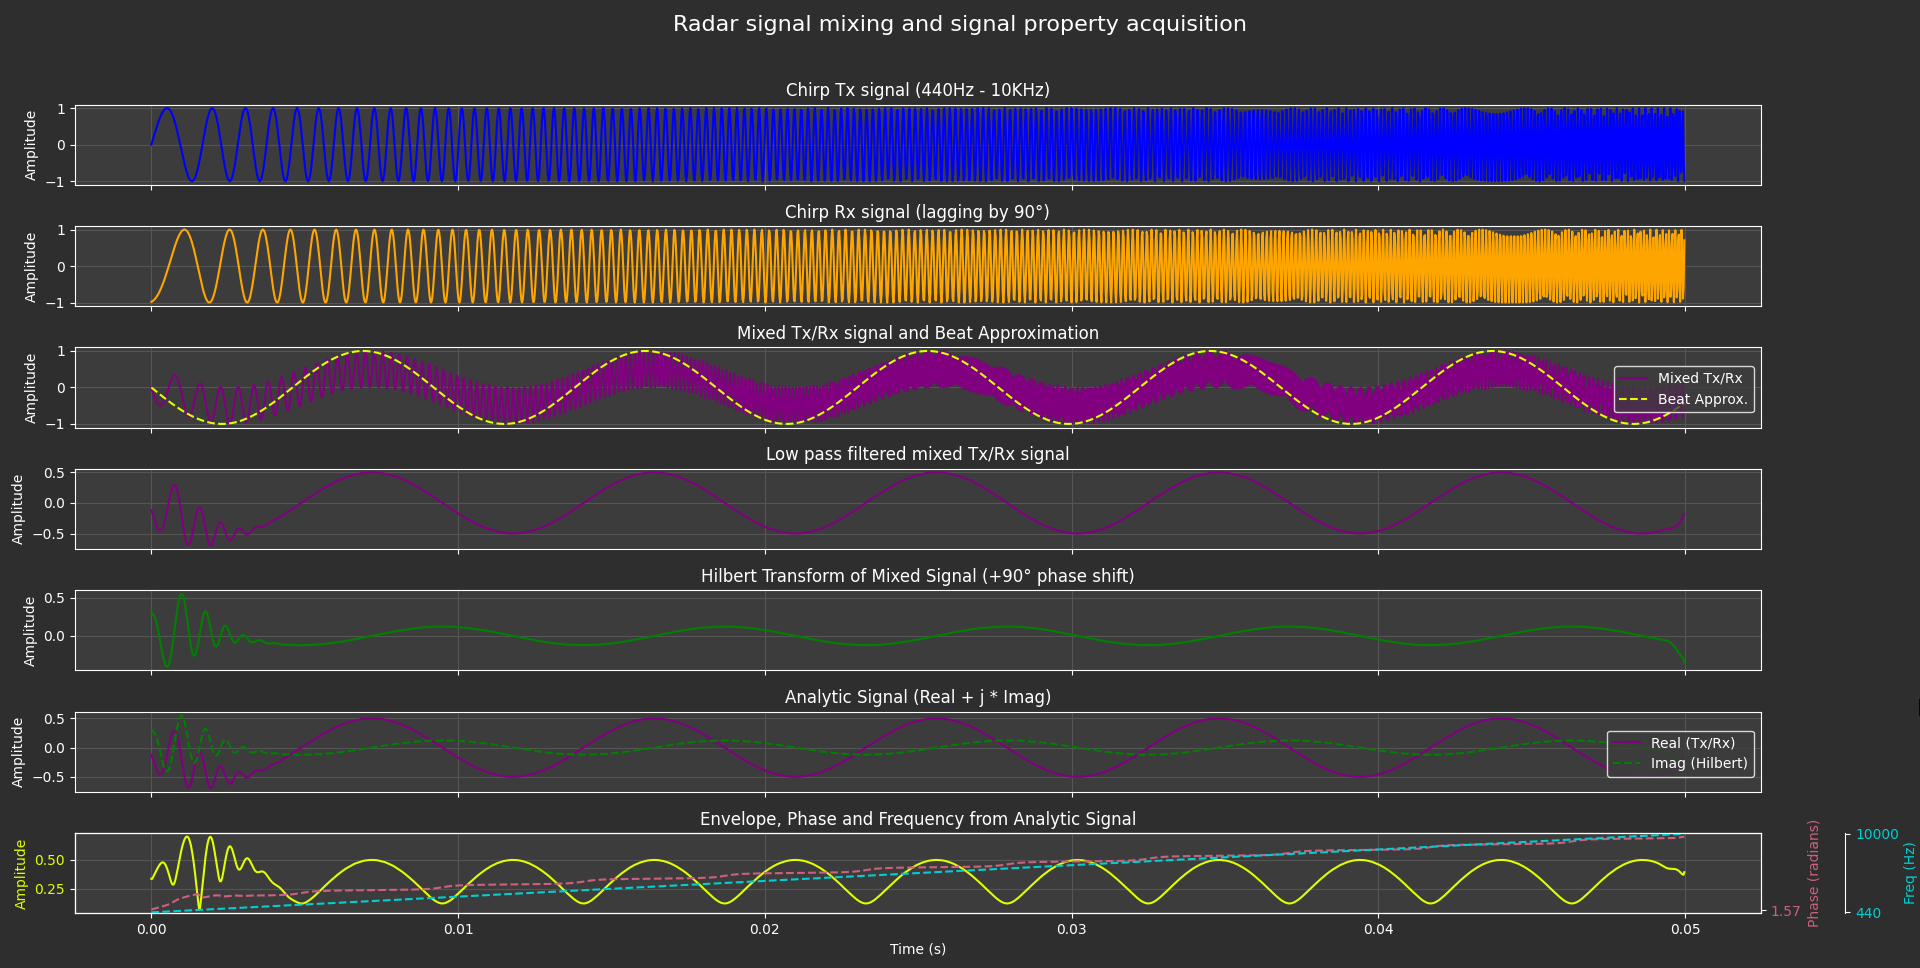
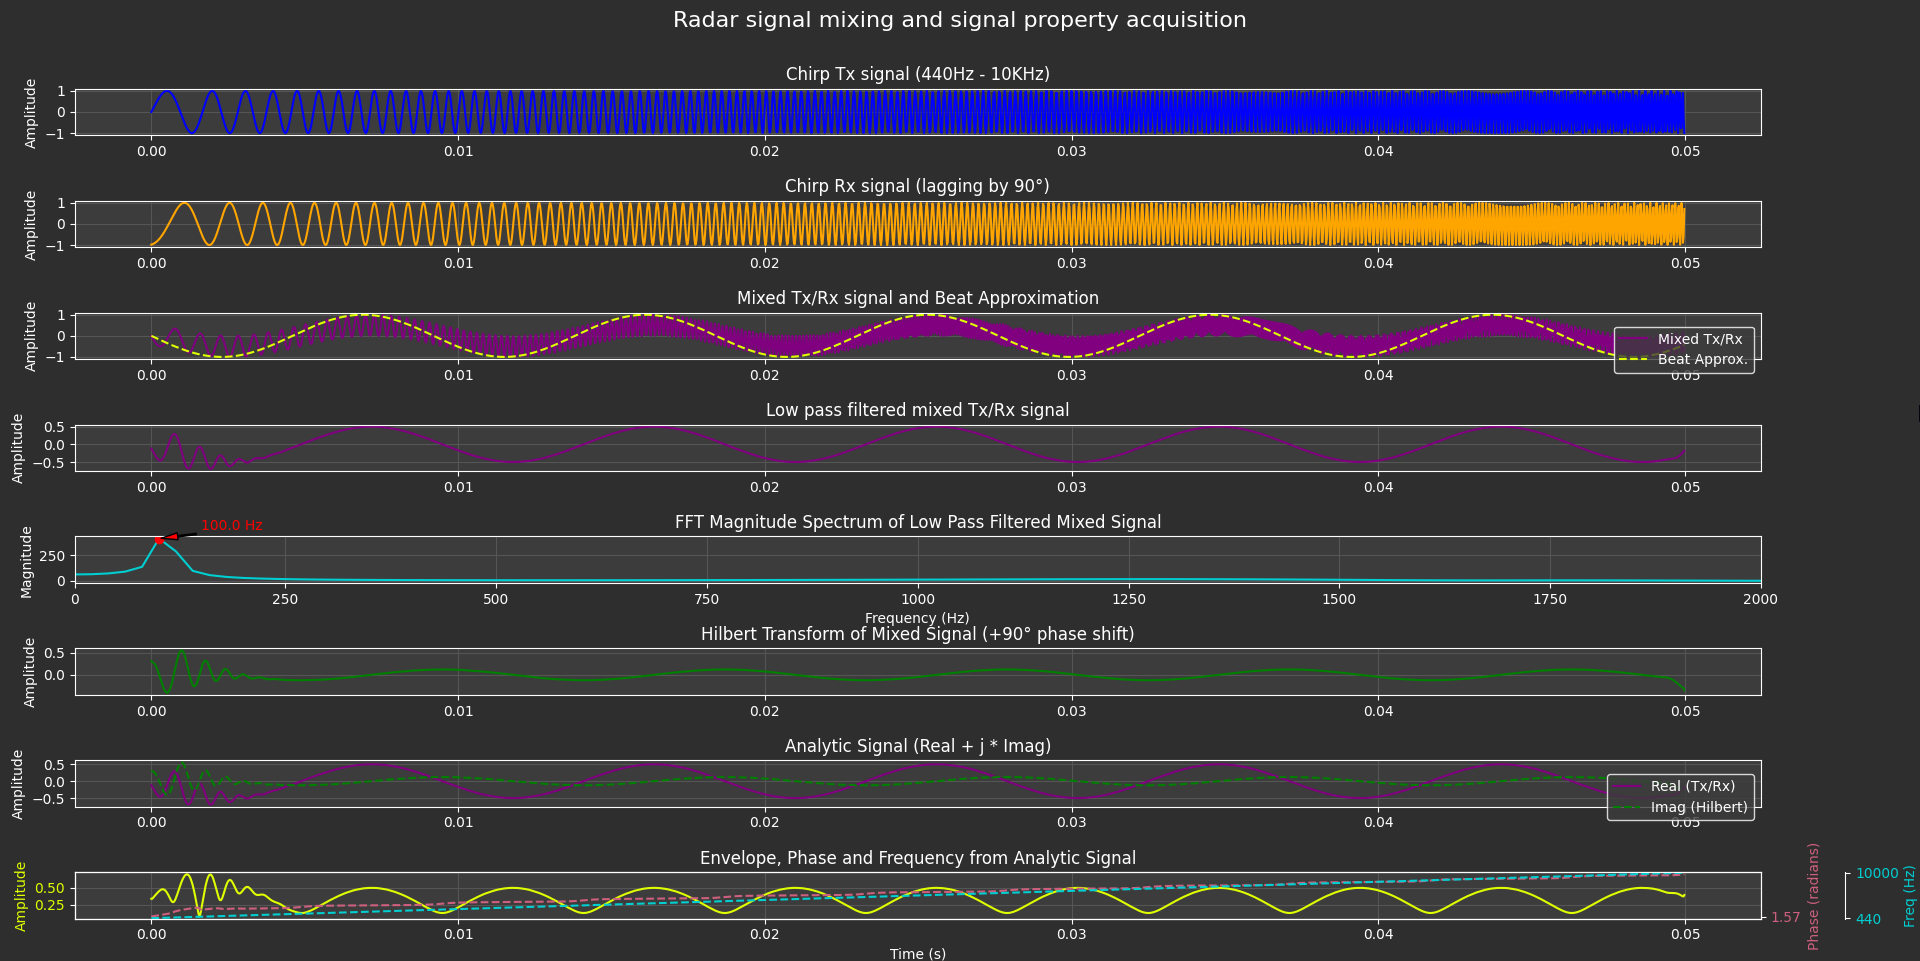
Updated the python radar signal mixing/LowPassFiltering/HilbertTransform to include a range FFT computation and plot.

Changed region(s): [[0.0, 0.0624, 1.0, 0.999], [0.3438, 0.0, 0.6562, 0.0312], [0.8125, 0.5307, 0.875, 0.5619]]

diff --git a/Documentation/Math/Radar_Signal_Mixing/fmcw_radar_signal_mixing.py b/Documentation/Math/Radar_Signal_Mixing/fmcw_radar_signal_mixing.py
@@ -1,8 +1,6 @@
-import numpy as np
+import numpy as np 
 import matplotlib.pyplot as plt
 from matplotlib import style
-
-
 
 # Chirp Parameters
 f_start = 440          # Start frequency in Hz
@@ -42,228 +40,217 @@ hilbert_transform_result = np.zeros(HILBERT_TRANSFORM_RESULT_SIZE)
 
 # Analytic signal and instantaneous amplitude (envelope), frequency and phase acquisition
 analytic_signal = np.zeros(HILBERT_TRANSFORM_RESULT_SIZE)
+amplitude_envelope = None
+instantaneous_phase = None
+instantaneous_frequency = None
+lowpass_output_trimmed = None
+hilbert_transform_result_trimmed = None
 
-
-
-def ImpulseResponse_Create_FIR_LowPass(cutoff_hz, sample_rate, numtaps): # TO DO: STUDY THIS TOMORROW => STUDIED A MOVING AVERAGE FILTER BEFORE BUT NOT YET A FIR IMPLEMENTATION
-    """
-    Design a low-pass FIR filter using a sinc function and Hamming window.
-    cutoff_hz:     cutoff frequency in Hz
-    sample_rate:   sampling rate in Hz
-    numtaps:       number of filter taps (must be odd)
-    """
-    # Normalized cutoff (0 to 1, where 1 = Nyquist = fs/2)
+def ImpulseResponse_Create_FIR_LowPass(cutoff_hz, sample_rate, numtaps):
     norm_cutoff = cutoff_hz / (sample_rate / 2)
-
-    # Create symmetric time base (centered at 0)
     n = np.arange(numtaps)
     middle = (numtaps - 1) / 2.0
     h = np.sinc((n - middle) * norm_cutoff)
-
-    # Apply Hamming window to reduce side lobes
     h *= np.hamming(numtaps)
-
-    # Normalize gain to 1 (to preserve signal amplitude)
     h /= np.sum(h)
     return h
 
 def Convolution_LowPassFilter(input_signal, impulse_response, output_signal):
-    """
-    Perform convolution: y[n] = sum_{m=0}^{M-1} x[m] * h[n - m]
-    where:
-        - input_signal: x[m]
-        - impulse_response: h[k]
-        - output_signal: y[n] of length M + N - 1
-    """
-    input_size = len(input_signal)               # Length of input signal (x[m])
-    impulse_size = len(impulse_response)         # Length of filter (h[k])
-    output_size = input_size + impulse_size - 1  # Full convolution size
-
-    # Manually clear output signal
+    input_size = len(input_signal)
+    impulse_size = len(impulse_response)
+    output_size = input_size + impulse_size - 1
     for n in range(output_size):
         output_signal[n] = 0.0
-
-    # Perform convolution (equivalent to sliding impulse response over input signal)
-    for n in range(output_size):                 # For each output sample y[n]
-        for k in range(impulse_size):            # For each impulse response value h[k]
-            m = n - k                            # Calculate corresponding input index
-            if 0 <= m < input_size:              # Check bounds of input signal
+    for n in range(output_size):
+        for k in range(impulse_size):
+            m = n - k
+            if 0 <= m < input_size:
                 output_signal[n] += input_signal[m] * impulse_response[k]
 
 def ImpulseResponse_Create_HilbertTransform(size):
-    """
-    Create a finite discrete approximation of h[n] = 1 / (π n), skipping n=0.
-    Returns an array of length `size` centered around zero (odd size preferred).
-    """
-    # The impulse response is centered around 0, with 0 excluded, thus an odd size impulse response is necessary to create an equal amount of samples on each side of 0
     if size % 2 == 0: 
         raise ValueError("Impulse response size should be odd")
-
-    half = size // 2   # Python integer division so the result can't be a floating point value 
-    h = np.zeros(size) # Create an array to hold the computed impulse response
+    half = size // 2
+    h = np.zeros(size)
     for n in range(-half, half + 1):
-        if n == 0: # Prevent dividing by 0
+        if n == 0:
             continue
-        h[n + half] = 1 / (np.pi * n) # Compute each discrete impulse response sample. (Shift the index n by half the impulse response size so that the indexing starts at 0)
+        h[n + half] = 1 / (np.pi * n)
     return h
 
-def Convolution_HilbertTransform(input_signal, impulse_response, output_signal): # Performs convolution: hilbert_impulse_response * mixed_signal
+def Convolution_HilbertTransform(input_signal, impulse_response, output_signal):
     print("Performing the Hilbert transform on the original signal.")
-    for m in range(CHIRP_SIGNAL_SIZE):            # m = index for input_signal (x[m])
-        for i in range(HILBERT_IMPULSE_RESPONSE_SIZE):  # i = index for impulse_response (h[i])
-            # n shifts the impulse response over the input signal. (It's start value is incremented each output component row that is iterated over)
-            n = m + i                                   # total output sample index in output signal (y[n]) => i = n - m => thus h(i) = h(n-m)
+    for m in range(CHIRP_SIGNAL_SIZE):
+        for i in range(HILBERT_IMPULSE_RESPONSE_SIZE):
+            n = m + i
             if n < HILBERT_TRANSFORM_RESULT_SIZE:
-                # contribution: input_signal[m] * impulse_response[i]       # x[m] * h[i]
-                output_signal[n] += input_signal[m] * impulse_response[i]   # y[n] += x[m] * h[n - m], where (n - m) = i
-   
+                output_signal[n] += input_signal[m] * impulse_response[i]
+
 def AnalyticSignal_Create():  
     print("Creating the analytic signal by combining the original signal as real component and the Hilbert transform as the imaginary component.")
- 
+    global analytic_signal
+    global lowpass_output_trimmed, hilbert_transform_result_trimmed
+    analytic_signal = lowpass_output_trimmed + 1j * hilbert_transform_result_trimmed
+
 def AnalyticSignal_ComputeInstantaneousAmplitude():
     print("Compute the instantaneous amplitude from the analytic signal.")
+    global amplitude_envelope
+    global analytic_signal
+    amplitude_envelope = np.abs(analytic_signal)
 
 def AnalyticSignal_ComputeInstantaneousFrequency():
     print("Compute the instantaneous frequency from the analytic signal.")
-    
+    global instantaneous_frequency
+    global analytic_signal, dt
+    instantaneous_phase = np.unwrap(np.angle(analytic_signal))
+    instantaneous_frequency = np.gradient(instantaneous_phase, dt) / (2 * np.pi)
+
 def AnalyticSignal_ComputeInstantaneousPhase():
     print("Compute the instantaneous phase from the analytic signal.")
+    global instantaneous_phase
+    global analytic_signal
+    instantaneous_phase = np.unwrap(np.angle(analytic_signal))
     
 def main():
+    global lowpass_output_trimmed, hilbert_transform_result_trimmed
+
     # 1. Low Pass Filter the mixed Tx/Rx chirp
     lpf_kernel = ImpulseResponse_Create_FIR_LowPass(cutoff_hz, sample_rate, numtaps)
     Convolution_LowPassFilter(chirp_signal_mixed, lpf_kernel, lowpass_output_signal)
-    # Trim to match the original chirp size
     start = (numtaps - 1) // 2
     lowpass_output_trimmed = lowpass_output_signal[start:start + len(chirp_signal_mixed)]
     
-    # 2. Hilbert transform
+    # 2. Range FFT
+    N = len(lowpass_output_trimmed)
+    freqs = np.fft.rfftfreq(N, dt)  # Only positive frequencies
+    fft_result = np.fft.rfft(lowpass_output_trimmed)
+    magnitude_spectrum = np.abs(fft_result)
+    
+    # Find peak for marker
+    peak_idx = np.argmax(magnitude_spectrum)
+    peak_freq = freqs[peak_idx]
+    peak_mag = magnitude_spectrum[peak_idx]
+
+    # 3. Hilbert transform
     hilbert_impulse_response = ImpulseResponse_Create_HilbertTransform(HILBERT_IMPULSE_RESPONSE_SIZE)
-    # Convolution_HilbertTransform(chirp_signal_mixed, hilbert_impulse_response, hilbert_transform_result)
     Convolution_HilbertTransform(lowpass_output_trimmed, hilbert_impulse_response, hilbert_transform_result)
     
-    # 3. Trim the Hilbert transform result to match the input signal length
+    # 4. Trim the Hilbert transform result to match the input signal length
     start = (HILBERT_IMPULSE_RESPONSE_SIZE - 1) // 2
     end = start + CHIRP_SIGNAL_SIZE
     hilbert_transform_result_trimmed = hilbert_transform_result[start:end]
 
-    # 4. Create the analytic signal
-    # analytic_signal = chirp_signal_mixed + 1j * hilbert_transform_result_trimmed
-    analytic_signal = lowpass_output_trimmed + 1j * hilbert_transform_result_trimmed
+    # 5. Create the analytic signal
+    AnalyticSignal_Create()
     
-    # 5. Instantaneous amplitude (envelope), frequency and phase and acquisition
-    amplitude_envelope = np.abs(analytic_signal)
-    instantaneous_phase = np.unwrap(np.angle(analytic_signal))
-    instantaneous_frequency = np.gradient(instantaneous_phase, dt) / (2 * np.pi)
-    expected_instantaneous_frequency = f_start + k * t # Gives the expected instantaneous frequency at each time point t
+    # 6. Instantaneous amplitude (envelope), frequency and phase and acquisition
+    AnalyticSignal_ComputeInstantaneousAmplitude()
+    AnalyticSignal_ComputeInstantaneousPhase()
+    AnalyticSignal_ComputeInstantaneousFrequency()
+    expected_instantaneous_frequency = f_start + k * t
 
-    # 6. Plotting
-    # Custom soft dark theme (light-dark gray)
+    # 7. Plotting
     plt.rcParams.update({
-        'figure.facecolor': '#2e2e2e',     # Figure background (darker gray)
-        'axes.facecolor': '#3c3c3c',       # Axes (plot area) background (medium gray)
-        'savefig.facecolor': '#2e2e2e',    # For saving images
-
+        'figure.facecolor': '#2e2e2e',
+        'axes.facecolor': '#3c3c3c',
+        'savefig.facecolor': '#2e2e2e',
         'text.color': 'white',
         'axes.labelcolor': 'white',
         'xtick.color': 'white',
         'ytick.color': 'white',
         'axes.edgecolor': 'white',
-        'grid.color': '#555555',           # Soft gray grid
-        'legend.facecolor': '#3c3c3c',     # Match axes background
+        'grid.color': '#555555',
+        'legend.facecolor': '#3c3c3c',
         'legend.edgecolor': 'white',
         'legend.labelcolor': 'white',
     })
     
-    fig, axes = plt.subplots(nrows=7, ncols=1, figsize=(20, 10), sharex=True)
-
+    fig, axes = plt.subplots(nrows=8, ncols=1, figsize=(20, 12), sharex=False)
     fig.suptitle("Radar signal mixing and signal property acquisition", fontsize=16)
 
-    # Tx
     axes[0].set_title("Chirp Tx signal (440Hz - 10KHz)")
     axes[0].plot(t, chirp_signal_tx, color="blue")
     axes[0].set_ylabel("Amplitude")
     axes[0].grid(True)
 
-    # Rx
     axes[1].set_title("Chirp Rx signal (lagging by 90°)")
     axes[1].plot(t, chirp_signal_rx, color="orange")
     axes[1].set_ylabel("Amplitude")
     axes[1].grid(True)
 
-    # Mixed Tx/Rx & beat signal
     axes[2].set_title("Mixed Tx/Rx signal and Beat Approximation")
     axes[2].plot(t, chirp_signal_mixed, label="Mixed Tx/Rx", color="purple")
     axes[2].plot(t, chirp_signal_mixed_beat_approximation, label="Beat Approx.", color="#DFFF00", linestyle="--")
     axes[2].set_ylabel("Amplitude")
     axes[2].legend(loc='upper right', bbox_to_anchor=(1, 0.85))
     axes[2].grid(True)
-    
-    # Low Pass Filtered mixed Tx/Rx signal
+
     axes[3].set_title("Low pass filtered mixed Tx/Rx signal")
     axes[3].plot(t, lowpass_output_trimmed, label="Filtered mixed Tx/Rx", color="purple")
     axes[3].set_ylabel("Amplitude")
     axes[3].grid(True)
     
-    # Hilbert
-    axes[4].set_title("Hilbert Transform of Mixed Signal (+90° phase shift)")
-    axes[4].plot(t, hilbert_transform_result_trimmed, color="green")
-    axes[4].set_ylabel("Amplitude")
-    axes[4].grid(True)
+    axes[4].set_title("FFT Magnitude Spectrum of Low Pass Filtered Mixed Signal")
+    axes[4].plot(freqs, magnitude_spectrum, color="#00CED1")
 
-    # Analytic signal
-    axes[5].set_title("Analytic Signal (Real + j * Imag)")
-    axes[5].plot(t, np.real(analytic_signal), label="Real (Tx/Rx)", color="purple")
-    axes[5].plot(t, np.imag(analytic_signal), label="Imag (Hilbert)", color="green", linestyle="--")
-    axes[5].legend(loc='upper right', bbox_to_anchor=(1, 0.85))
+    # Add peak marker and annotation
+    axes[4].plot(peak_freq, peak_mag, 'ro')  # red circle marker
+    axes[4].annotate(f"{peak_freq:.1f} Hz", 
+                     xy=(peak_freq, peak_mag), 
+                     xytext=(peak_freq + 50, peak_mag + 80),
+                     color='red',
+                     arrowprops=dict(facecolor='red', shrink=0.05, width=1, headwidth=5))
+
+    axes[4].set_ylabel("Magnitude")
+    axes[4].set_xlabel("Frequency (Hz)")
+    axes[4].grid(True)
+    axes[4].set_xlim(0, 2000)  # limit x-axis for better visualization
+    
+    axes[5].set_title("Hilbert Transform of Mixed Signal (+90° phase shift)")
+    axes[5].plot(t, hilbert_transform_result_trimmed, color="green")
     axes[5].set_ylabel("Amplitude")
     axes[5].grid(True)
 
-    # Shared plot: Envelope + Phase + Frequency
-    axes[6].set_title("Envelope, Phase and Frequency from Analytic Signal")
-    # Primary Y-axis (Amplitude)
-    axes[6].plot(t, amplitude_envelope, label="Envelope", color="#DFFF00")
-    axes[6].set_ylabel("Amplitude", color="#DFFF00")
-    axes[6].tick_params(axis='y', labelcolor='#DFFF00')
-    # Secondary Y-axis (Phase)
-    ax_phase = axes[6].twinx()
+    axes[6].set_title("Analytic Signal (Real + j * Imag)")
+    axes[6].plot(t, np.real(analytic_signal), label="Real (Tx/Rx)", color="purple")
+    axes[6].plot(t, np.imag(analytic_signal), label="Imag (Hilbert)", color="green", linestyle="--")
+    axes[6].legend(loc='upper right', bbox_to_anchor=(1, 0.85))
+    axes[6].set_ylabel("Amplitude")
+    axes[6].grid(True)
+
+    axes[7].set_title("Envelope, Phase and Frequency from Analytic Signal")
+    axes[7].plot(t, amplitude_envelope, label="Envelope", color="#DFFF00")
+    axes[7].set_ylabel("Amplitude", color="#DFFF00")
+    axes[7].tick_params(axis='y', labelcolor='#DFFF00')
+    ax_phase = axes[7].twinx()
     ax_phase.plot(t, instantaneous_phase, label="Phase", color="#CD607E", linestyle="--")
     ax_phase.set_ylabel("Phase (radians)", color="#CD607E")
     ax_phase.tick_params(axis='y', labelcolor='#CD607E')
     ax_phase.set_yticks([phi])
     ax_phase.set_yticklabels([f"{phi:.2f}"])
-    # Third Y-axis (Frequency)
-    ax_freq = axes[6].twinx()
+    ax_freq = axes[7].twinx()
     ax_freq.spines["right"].set_position(("axes", 1.05))
-    # ax_freq.plot(t, instantaneous_frequency, color="green", linestyle=":", label="Frequency")
     ax_freq.plot(t, expected_instantaneous_frequency, color="#00CED1", linestyle="--", label="Expected")
     ax_freq.set_ylabel("Freq (Hz)", color="#00CED1")
     ax_freq.tick_params(axis='y', labelcolor='#00CED1')
     ax_freq.set_ylim(f_start - 100, f_end + 100)
     ax_freq.set_yticks([f_start, f_end])
     
-    # Only set the x label of the last plot because all plots are against time (s)
-    axes[6].set_xlabel("Time (s)")
-    axes[6].grid(True)
+    axes[7].set_xlabel("Time (s)")
+    axes[7].grid(True)
 
-    # Final layout adjustments
     plt.tight_layout(rect=[0, 0, 1, 0.96])
     
     mng = plt.get_current_fig_manager()
-    
-    # Try maximizing the matplot window because the plots take up a lot of space
     try:
-        mng.window.state('zoomed')      # Windows
+        mng.window.state('zoomed')
     except AttributeError:
         try:
-            mng.window.showMaximized()  # Linux
+            mng.window.showMaximized()
         except AttributeError:
-            # For Mac or others fallback, no built-in maximize but can resize manually:
             mng.resize(*mng.window.maxsize())
-
     
     plt.show()
-
 
 if __name__ == "__main__":
     main()

diff --git a/Documentation/Math/Radar_Signal_Mixing/fmcw_radar_signal_mixing.md b/Documentation/Math/Radar_Signal_Mixing/fmcw_radar_signal_mixing.md
@@ -92,6 +92,10 @@ where **c** is the speed of light.
 
 ---
 
+### Range FFT
+
+---
+
 ### Plotting Simulation 
 
 - The **TX chirp** can be plotted as:
